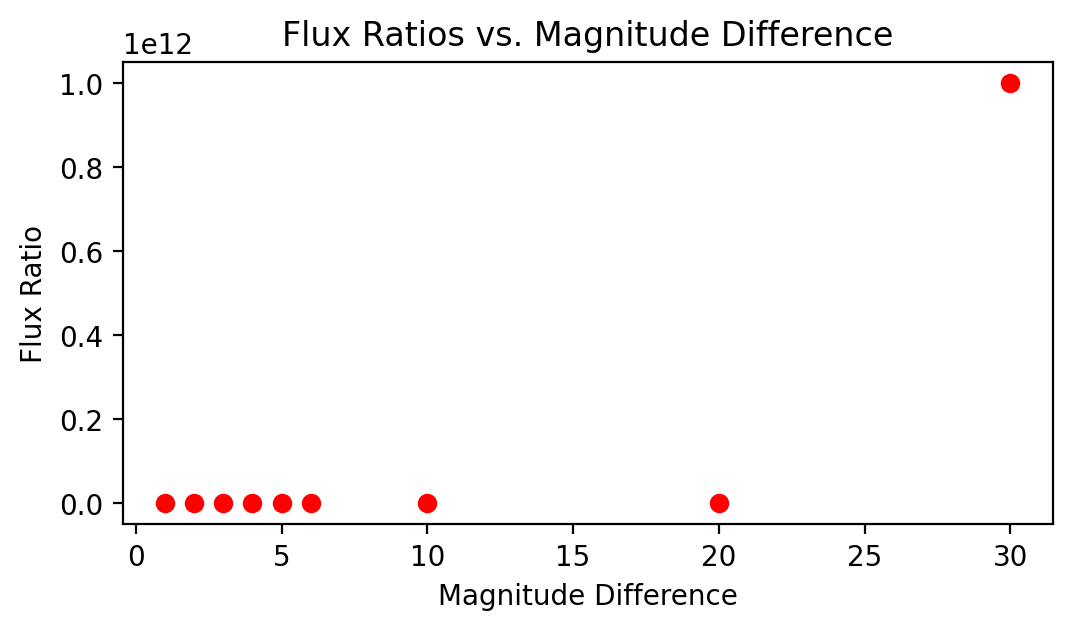
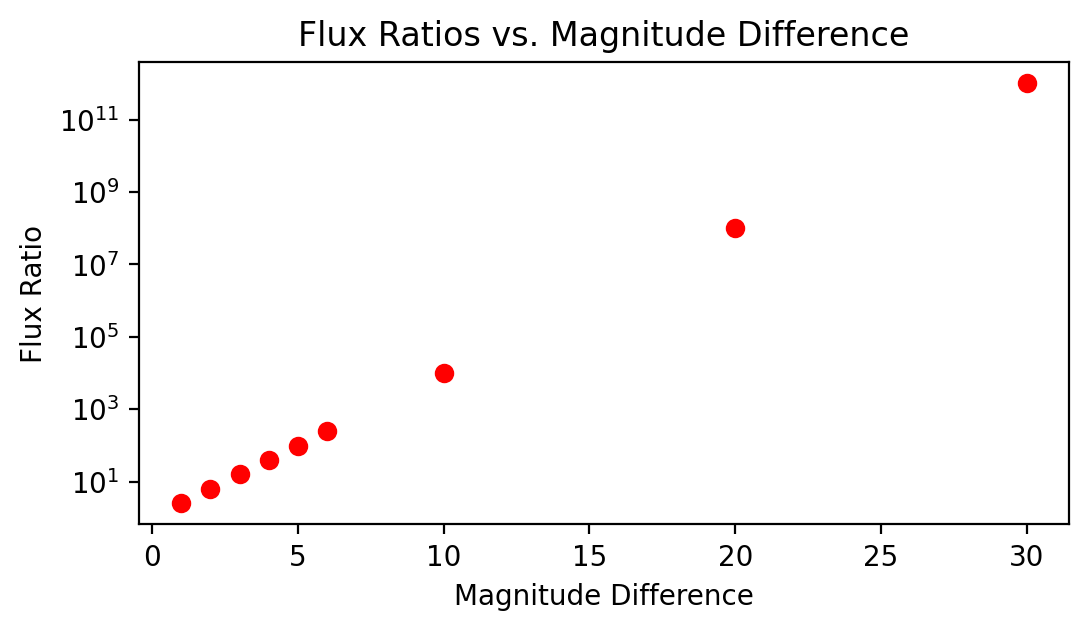
re-making plots

diff --git a/intro-astro/HW1/magnitude.py b/intro-astro/HW1/magnitude.py
@@ -24,7 +24,7 @@ def plot_flux_ratios(delta_mags, flux_ratios):
     plt.xlabel('Magnitude Difference')
     plt.ylabel('Flux Ratio')
     plt.title('Flux Ratios vs. Magnitude Difference')
-    plt.yscale('log') # plotting on a log scale to better visualize the data
+    plt.semilogy() # plotting on a log scale to better visualize the data
 
     # save figure to add to homework file, commented out for homework grading
     # plt.savefig('flux_ratios_vs_magnitude_difference.png', bbox_inches = 'tight')

diff --git a/intro-astro/HW1/ra_dec_to_vis.py b/intro-astro/HW1/ra_dec_to_vis.py
@@ -45,7 +45,7 @@ def plot_visibility(ra, dec, location, date):
     plt.tight_layout()
 
     # save figure to add to homework file, commented out for homework grading
-    plt.savefig('visibility_plot.png', bbox_inches = 'tight')
+    # plt.savefig('visibility_plot.png', bbox_inches = 'tight')
     
     plt.show()
 
@@ -62,6 +62,4 @@ if __name__ == '__main__':
 
     # create the plot
     plot_visibility(ra, dec, location, date)
-
-
 
